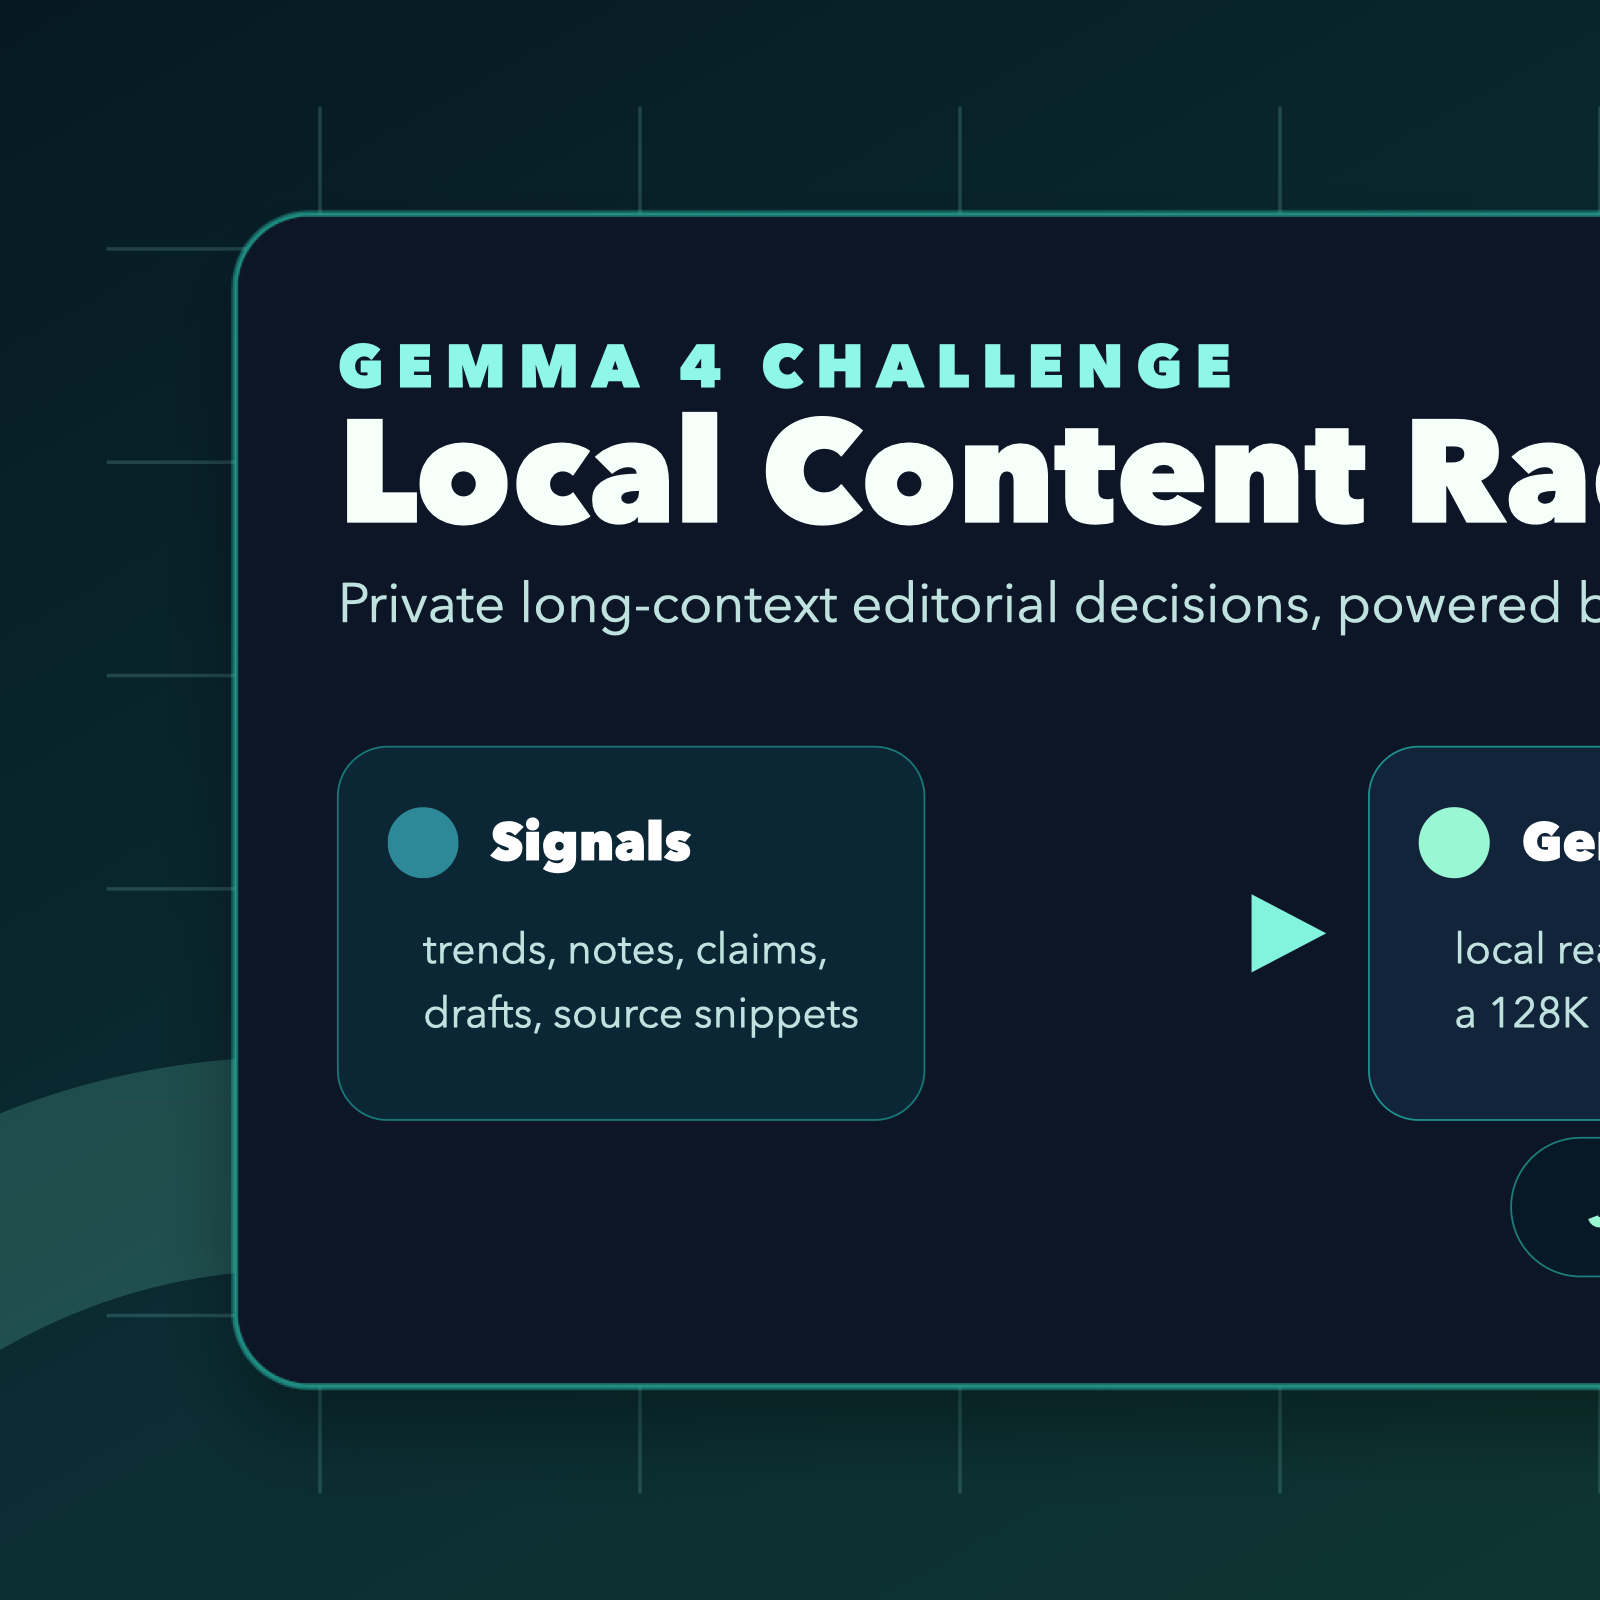
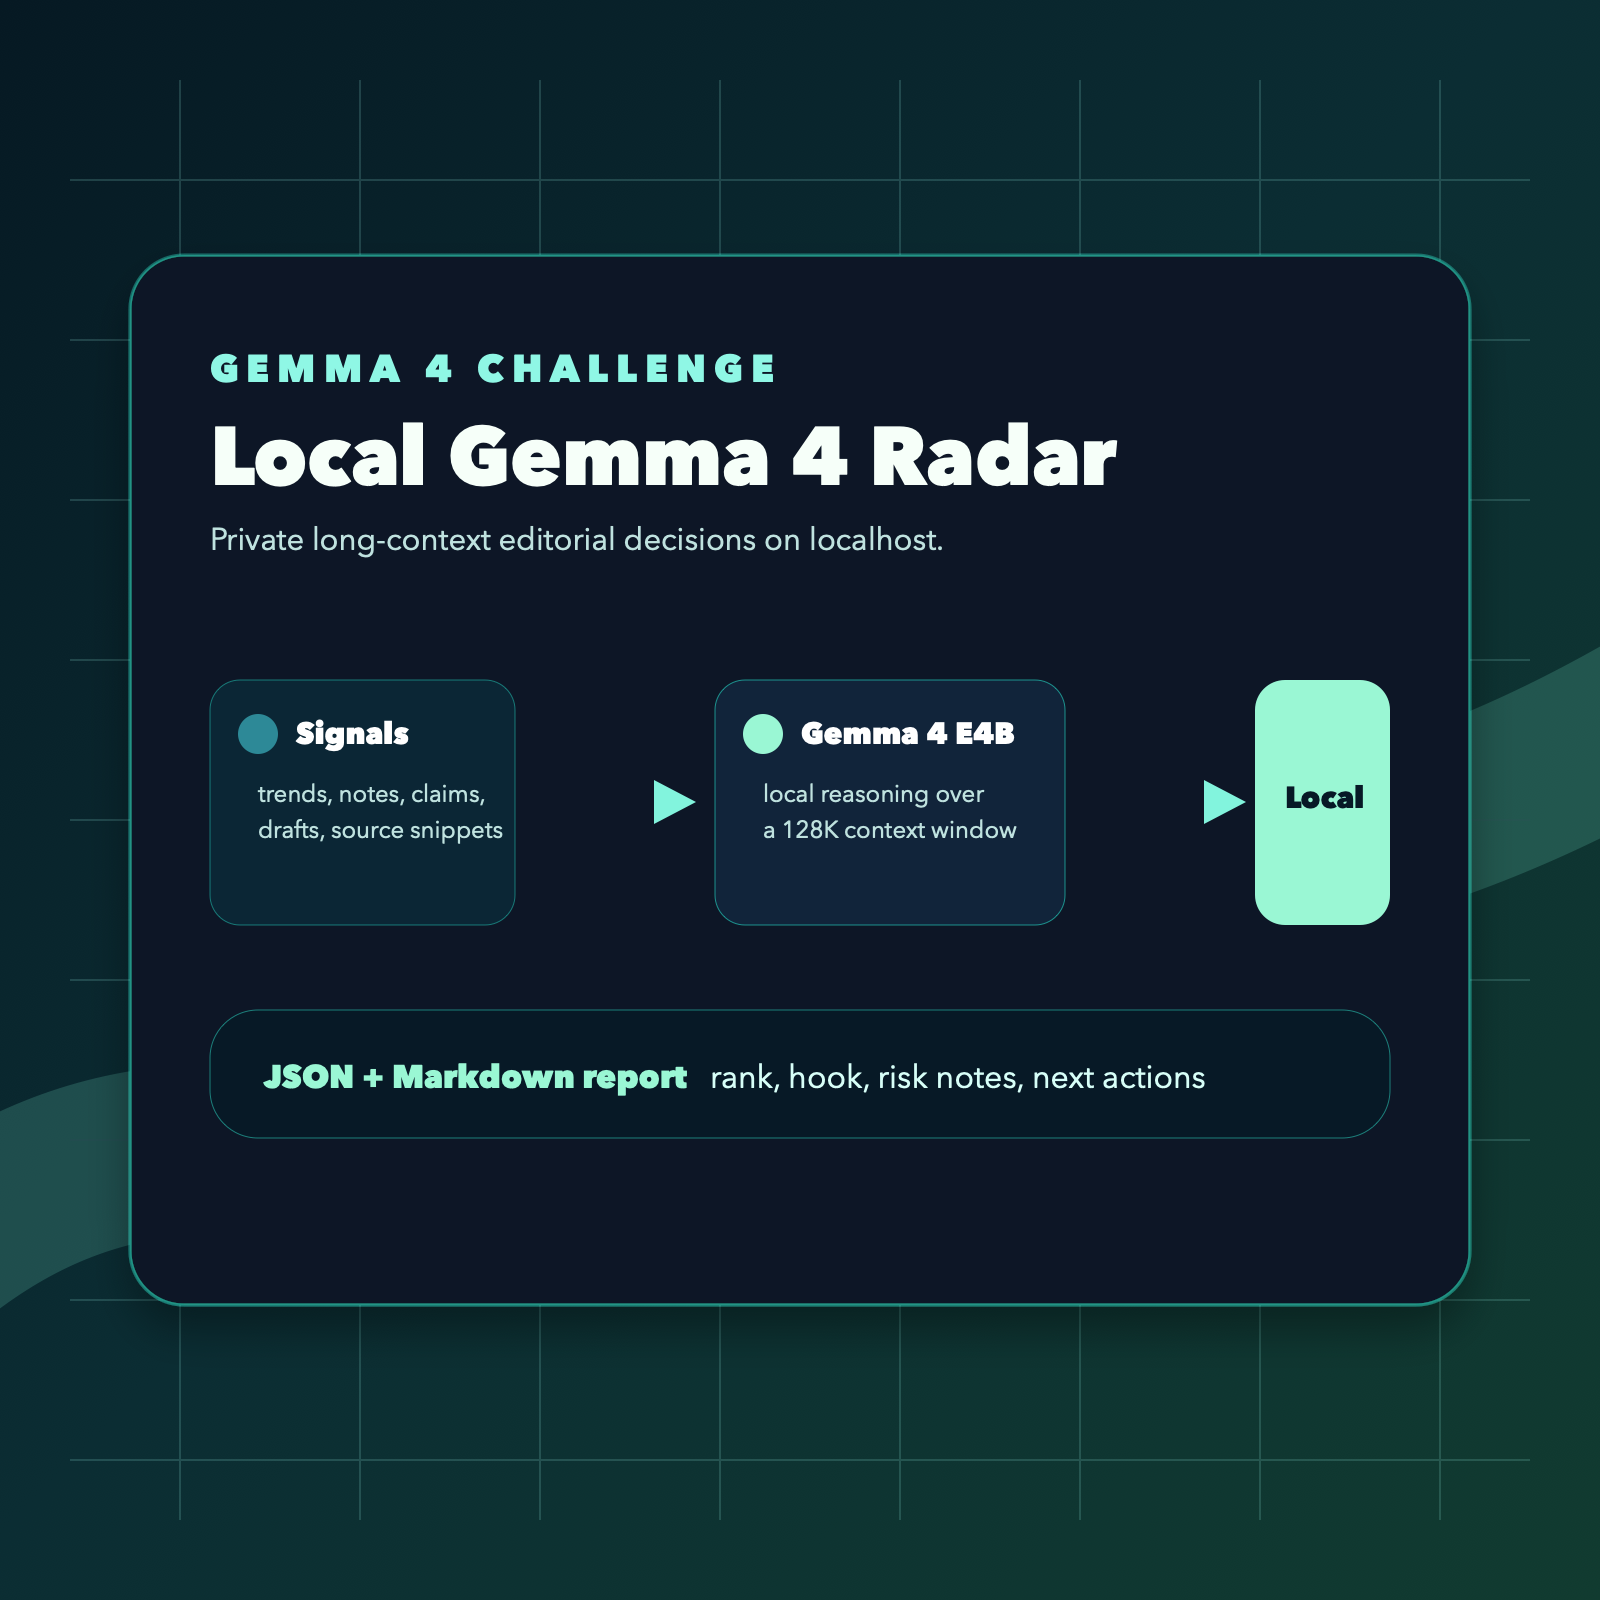
Fix Gemma challenge hero crop

diff --git a/DEV_POST.md b/DEV_POST.md
@@ -6,7 +6,7 @@ tags: devchallenge, gemmachallenge, gemma
 
 *This is a submission for the [Gemma 4 Challenge: Build with Gemma 4](https://dev.to/challenges/google-gemma-2026-05-06).*
 
-![Local Gemma 4 Content Radar hero](https://raw.githubusercontent.com/kax168/gemma4-local-content-radar/main/assets/hero.png?v=1)
+![Local Gemma 4 Content Radar hero](https://raw.githubusercontent.com/kax168/gemma4-local-content-radar/main/assets/hero.png?v=2)
 
 ## What I Built
 